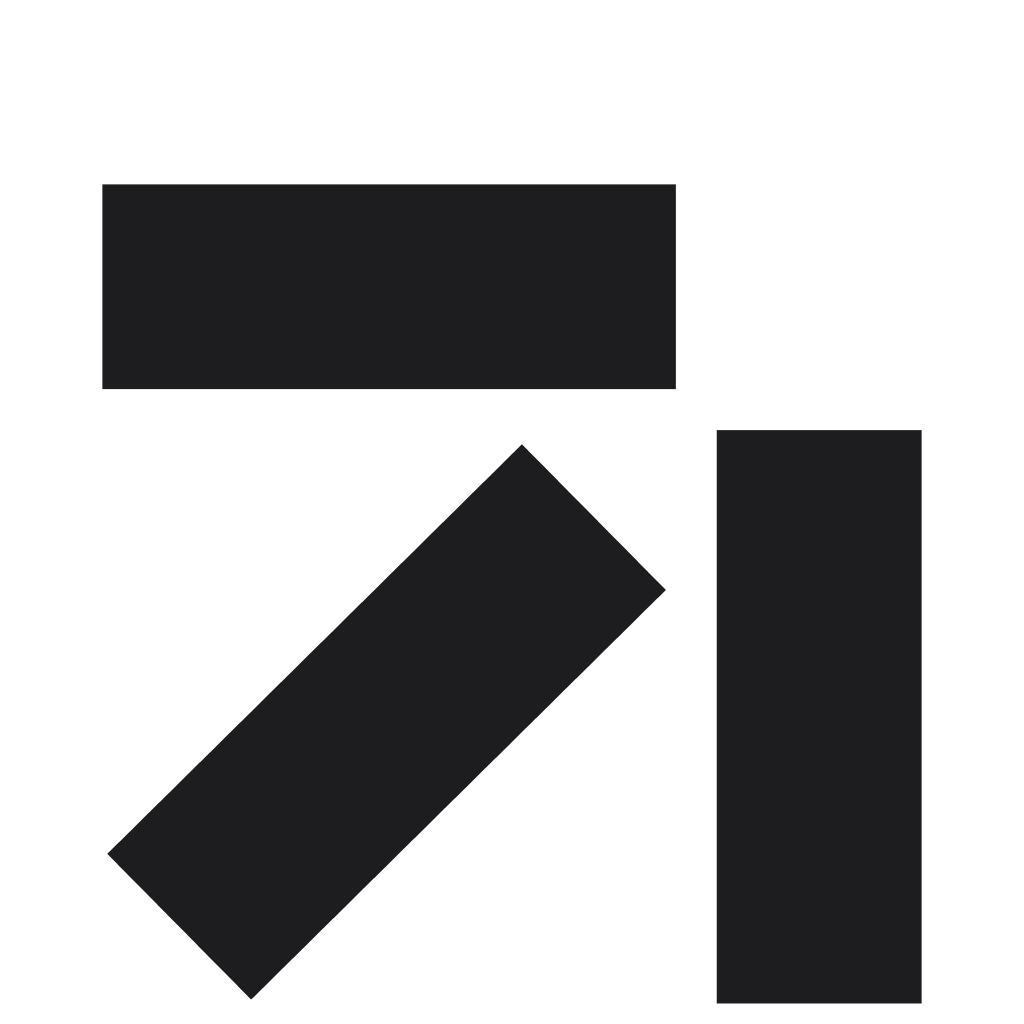
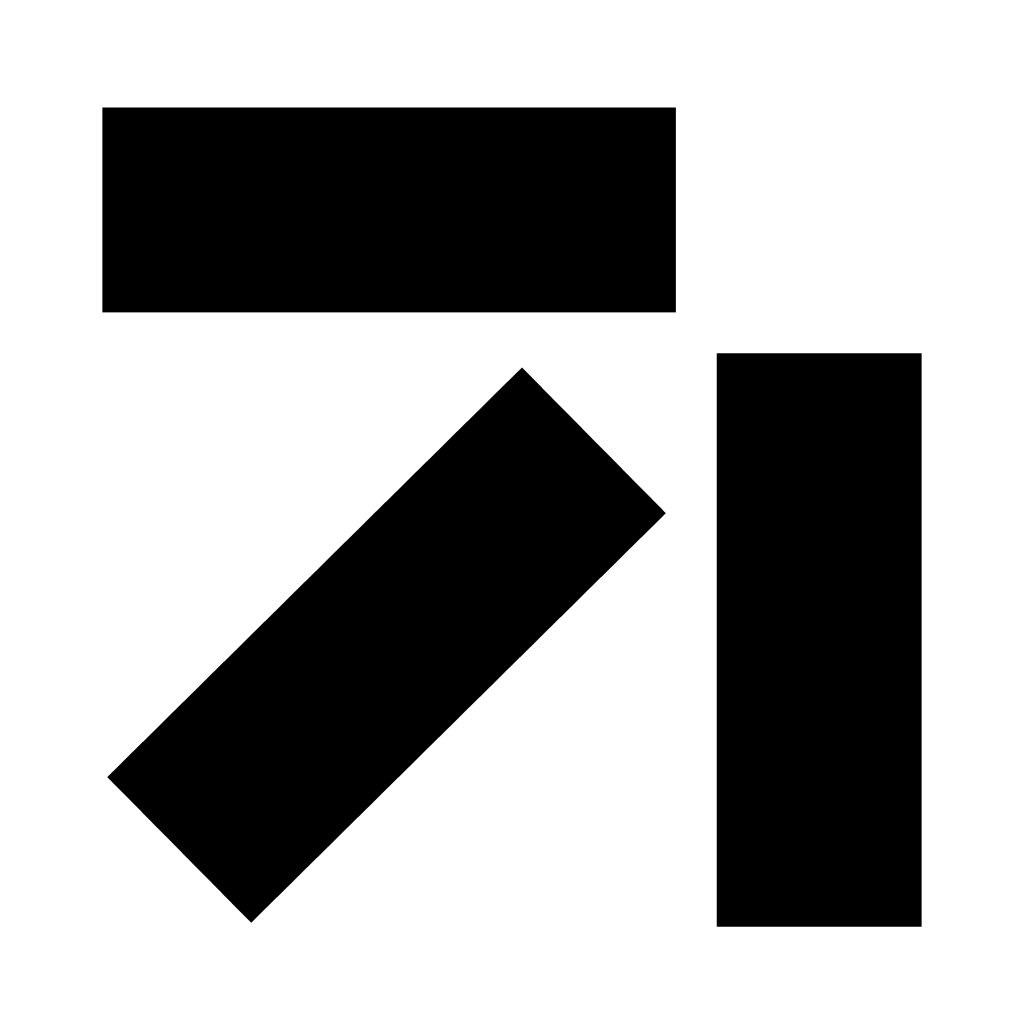
clean up images

diff --git a/components/FinofoLoader.tsx b/components/FinofoLoader.tsx
@@ -1,6 +1,6 @@
 /**
- * Finofo Animated Loader
- * Clean, minimal loading screen with the Finofo logo mark
+ * Finofo Loader
+ * Calm, minimal loading screen using the actual SVG logo
  */
 
 import { useEffect, useRef } from 'react';
@@ -11,148 +11,91 @@ import {
   View,
   type ViewStyle,
 } from 'react-native';
-import { Text, useTheme } from 'react-native-paper';
+import { Text } from 'react-native-paper';
+import Svg, { Path } from 'react-native-svg';
 
 interface FinofoLoaderProps {
   message?: string;
   subMessage?: string;
-  size?: 'small' | 'medium' | 'large';
   style?: ViewStyle;
-  showText?: boolean;
 }
 
 export const FinofoLoader = ({
-  message = 'Please wait...',
   subMessage = "We're making sure everything is perfect.",
-  size = 'medium',
   style,
-  showText = true,
 }: FinofoLoaderProps) => {
-  const theme = useTheme();
-  const pulseAnim = useRef(new Animated.Value(1)).current;
+  const logoOpacity = useRef(new Animated.Value(0)).current;
+  const logoScale = useRef(new Animated.Value(0.95)).current;
   const textOpacity = useRef(new Animated.Value(0)).current;
 
-  const logoSize = size === 'small' ? 48 : size === 'large' ? 80 : 64;
-
   useEffect(() => {
-    // Subtle pulse animation
-    const pulse = Animated.loop(
-      Animated.sequence([
-        Animated.timing(pulseAnim, {
-          toValue: 0.9,
-          duration: 800,
-          easing: Easing.inOut(Easing.ease),
-          useNativeDriver: true,
-        }),
-        Animated.timing(pulseAnim, {
-          toValue: 1,
-          duration: 800,
-          easing: Easing.inOut(Easing.ease),
-          useNativeDriver: true,
-        }),
-      ])
-    );
-    pulse.start();
-
-    // Fade in text
-    if (showText) {
-      Animated.timing(textOpacity, {
+    // Logo entrance
+    Animated.parallel([
+      Animated.timing(logoOpacity, {
         toValue: 1,
-        duration: 400,
-        delay: 600,
+        duration: 600,
+        easing: Easing.out(Easing.cubic),
         useNativeDriver: true,
-      }).start();
-    }
+      }),
+      Animated.timing(logoScale, {
+        toValue: 1,
+        duration: 600,
+        easing: Easing.out(Easing.cubic),
+        useNativeDriver: true,
+      }),
+    ]).start();
 
-    return () => pulse.stop();
-  }, [showText]);
+    // Text fade in
+    Animated.timing(textOpacity, {
+      toValue: 1,
+      duration: 600,
+      delay: 300,
+      easing: Easing.out(Easing.cubic),
+      useNativeDriver: true,
+    }).start();
+  }, []);
 
   return (
     <View style={[styles.container, style]}>
-      {/* Animated Logo */}
-      <Animated.View style={{ transform: [{ scale: pulseAnim }] }}>
-        <FinofoLogo size={logoSize} color="#1D1D20" />
+      <Animated.View
+        style={{
+          opacity: logoOpacity,
+          transform: [{ scale: logoScale }],
+        }}
+      >
+        <FinofoLogo size={56} color="#1D1D20" />
       </Animated.View>
 
-      {/* Text */}
-      {showText && (message || subMessage) && (
-        <Animated.View style={[styles.textContainer, { opacity: textOpacity }]}>
-          {message && (
-            <Text 
-              variant="bodyLarge" 
-              style={[styles.message, { color: theme.colors.onSurface }]}
-            >
-              {message}
-            </Text>
-          )}
-          {subMessage && (
-            <Text 
-              variant="bodyMedium" 
-              style={[styles.subMessage, { color: theme.colors.onSurfaceVariant }]}
-            >
-              {subMessage}
-            </Text>
-          )}
-        </Animated.View>
-      )}
+      <Animated.View style={[styles.textContainer, { opacity: textOpacity }]}>
+        <Text style={styles.subMessage}>{subMessage}</Text>
+      </Animated.View>
     </View>
   );
 };
 
 /**
- * Finofo Logo Component
- * Renders the Finofo "F" mark
- * Based on SVG: M2 5.6h11.2 (horizontal), vertical at right, diagonal from bottom-left
+ * Finofo Logo - Using actual SVG
  */
-export const FinofoLogo = ({ 
-  size = 24, 
-  color = '#1D1D20' 
-}: { 
-  size?: number; 
+export const FinofoLogo = ({
+  size = 32,
+  color = '#1D1D20',
+}: {
+  size?: number;
   color?: string;
 }) => {
-  const strokeWidth = size * 0.24; // Thinner strokes for more spacing
-  const halfStroke = strokeWidth / 2;
-
   return (
-    <View style={{ width: size, height: size }}>
-      {/* Horizontal bar - top */}
-      <View 
-        style={{
-          position: 'absolute',
-          left: size * 0.05,
-          top: size * 0.2 - halfStroke,
-          width: size * 0.55,
-          height: strokeWidth,
-          backgroundColor: color,
-        }} 
+    <Svg
+      width={size}
+      height={size}
+      viewBox="0 1.5 20 20"
+    >
+      <Path
+        d="M2 5.6h11.2m2.8 14V8.4M3.5 18.1l8.1-8"
+        stroke={color}
+        strokeWidth={4}
+        fill="none"
       />
-      
-      {/* Vertical bar - right side */}
-      <View 
-        style={{
-          position: 'absolute',
-          left: size * 0.8 - halfStroke,
-          top: size * 0.35,
-          width: strokeWidth,
-          height: size * 0.6,
-          backgroundColor: color,
-        }} 
-      />
-      
-      {/* Diagonal bar */}
-      <View 
-        style={{
-          position: 'absolute',
-          left: size * 0.12,
-          top: size * 0.52,
-          width: size * 0.52,
-          height: strokeWidth,
-          backgroundColor: color,
-          transform: [{ rotate: '-45deg' }],
-        }} 
-      />
-    </View>
+    </Svg>
   );
 };
 
@@ -161,18 +104,23 @@ const styles = StyleSheet.create({
     flex: 1,
     alignItems: 'center',
     justifyContent: 'center',
-    padding: 16,
+    backgroundColor: '#FFFFFF',
   },
   textContainer: {
-    marginTop: 32,
+    marginTop: 48,
     alignItems: 'center',
+    paddingHorizontal: 32,
   },
   message: {
+    fontSize: 16,
+    fontWeight: '500',
+    color: '#1D1D20',
     textAlign: 'center',
-    fontWeight: '600',
   },
   subMessage: {
+    fontSize: 14,
+    color: '#717072',
     textAlign: 'center',
-    marginTop: 6,
+    marginTop: 8,
   },
 });

diff --git a/app/index.tsx b/app/index.tsx
@@ -9,11 +9,10 @@ export default function Index() {
 	const { isLoaded } = useAuth();
 
 	// Show loading screen while Clerk initializes
-	if (!isLoaded) {
+	if (isLoaded) {
 		return (
 			<View style={{ flex: 1, backgroundColor: '#FFFFFF' }}>
 				<FinofoLoader 
-					message="Loading..." 
 					subMessage="Setting up your workspace"
 				/>
 			</View>
